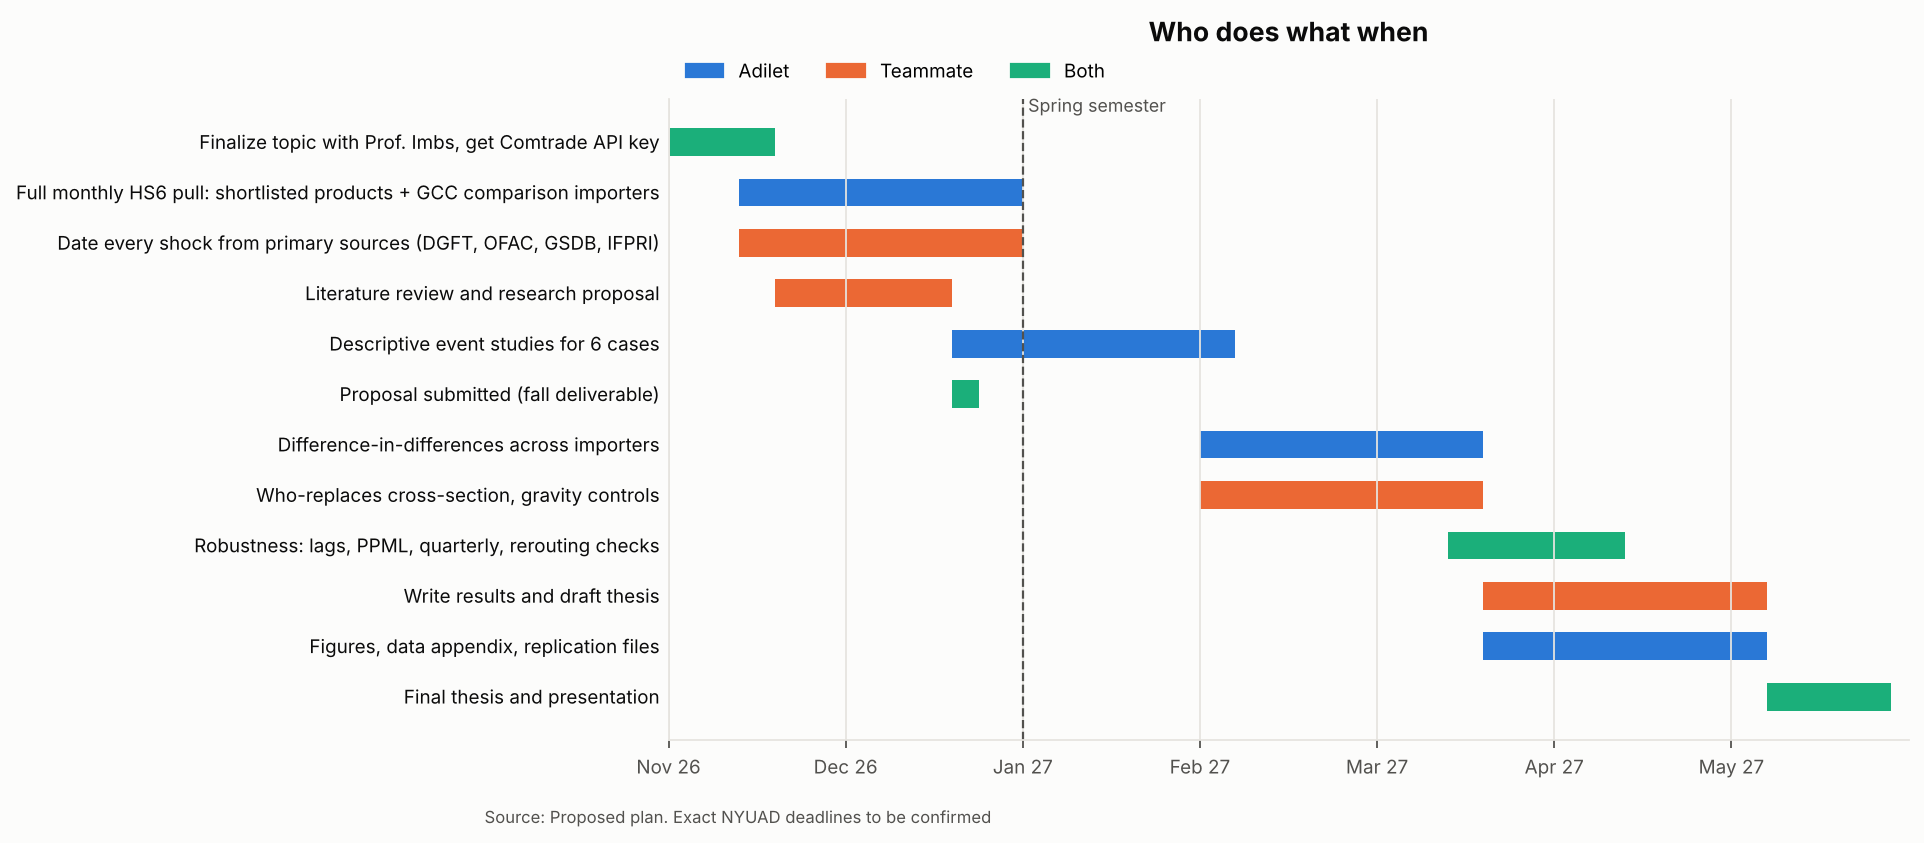
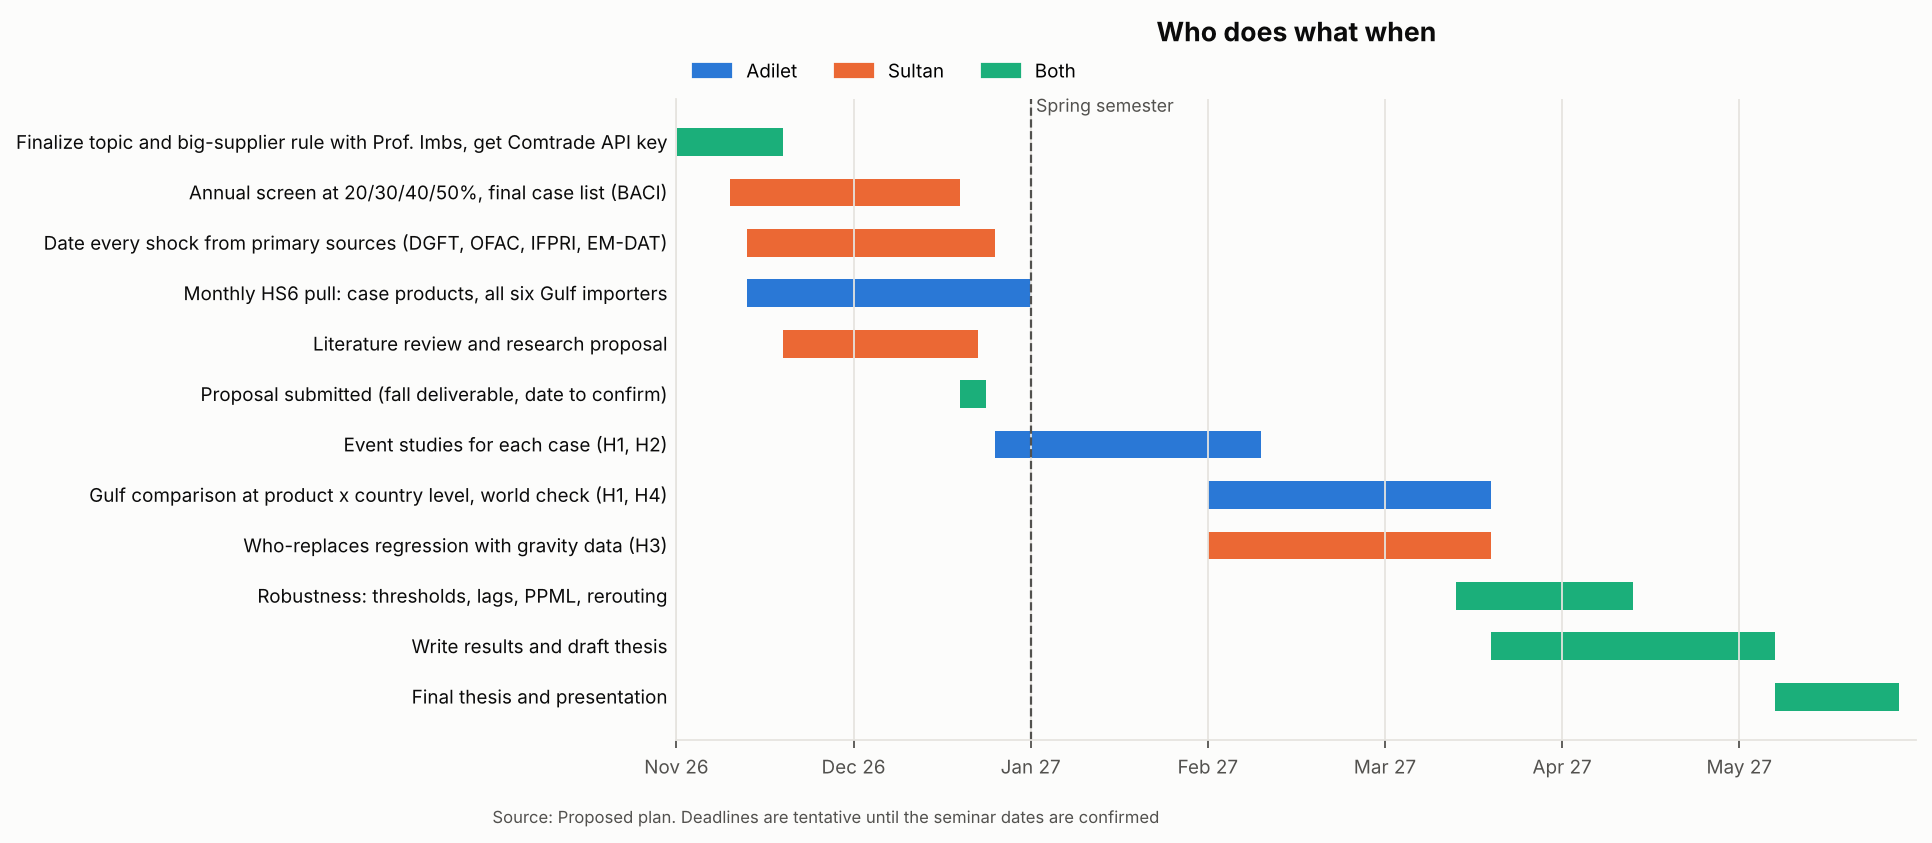
First look at hypotheses H2 and H3, timeline with agreed roles
Claude-Session: https://claude.ai/code/session_01Bw5zFw6EfUWiAtxb2EZNeQ

diff --git a/scripts/chart_timeline.py b/scripts/chart_timeline.py
@@ -1,19 +1,19 @@
 import sys; sys.path.insert(0,'scripts'); from charts_common import *
 import matplotlib.patches as mp
 tasks=[ # (label, start_month_index, end, owner)  index 0 = Nov 2026
- ('Finalize topic with Prof. Imbs, get Comtrade API key',0,0.6,'Both'),
- ('Full monthly HS6 pull: shortlisted products + GCC comparison importers',0.4,2,'Adilet'),
- ('Date every shock from primary sources (DGFT, OFAC, GSDB, IFPRI)',0.4,2,'Teammate'),
- ('Literature review and research proposal',0.6,1.6,'Teammate'),
- ('Descriptive event studies for 6 cases',1.6,3.2,'Adilet'),
- ('Proposal submitted (fall deliverable)',1.6,1.75,'Both'),
- ('Difference-in-differences across importers',3,4.6,'Adilet'),
- ('Who-replaces cross-section, gravity controls',3,4.6,'Teammate'),
- ('Robustness: lags, PPML, quarterly, rerouting checks',4.4,5.4,'Both'),
- ('Write results and draft thesis',4.6,6.2,'Teammate'),
- ('Figures, data appendix, replication files',4.6,6.2,'Adilet'),
+ ('Finalize topic and big-supplier rule with Prof. Imbs, get Comtrade API key',0,0.6,'Both'),
+ ('Annual screen at 20/30/40/50%, final case list (BACI)',0.3,1.6,'Sultan'),
+ ('Date every shock from primary sources (DGFT, OFAC, IFPRI, EM-DAT)',0.4,1.8,'Sultan'),
+ ('Monthly HS6 pull: case products, all six Gulf importers',0.4,2,'Adilet'),
+ ('Literature review and research proposal',0.6,1.7,'Sultan'),
+ ('Proposal submitted (fall deliverable, date to confirm)',1.6,1.75,'Both'),
+ ('Event studies for each case (H1, H2)',1.8,3.3,'Adilet'),
+ ('Gulf comparison at product x country level, world check (H1, H4)',3,4.6,'Adilet'),
+ ('Who-replaces regression with gravity data (H3)',3,4.6,'Sultan'),
+ ('Robustness: thresholds, lags, PPML, rerouting',4.4,5.4,'Both'),
+ ('Write results and draft thesis',4.6,6.2,'Both'),
  ('Final thesis and presentation',6.2,6.9,'Both')]
-col={'Adilet':PAL[0],'Teammate':PAL[1],'Both':PAL[2]}
+col={'Adilet':PAL[0],'Sultan':PAL[1],'Both':PAL[2]}
 fig,ax=plt.subplots(figsize=(10,5.2))
 for i,(l,s,e,o) in enumerate(tasks):
     y=len(tasks)-1-i; ax.barh(y,e-s,left=s,color=col[o],height=0.55)
@@ -23,4 +23,4 @@ ax.set_xticks(range(7)); ax.set_xticklabels(months,fontsize=8.5); ax.set_xlim(0,
 ax.axvline(2,color=INK2,lw=1,ls='--'); ax.text(2.03,len(tasks)-0.4,'Spring semester',fontsize=8,color=INK2)
 ax.legend(handles=[mp.Patch(color=col[k],label=k) for k in col],ncol=3,loc='lower left',bbox_to_anchor=(0,1.0),fontsize=8.5)
 ax.set_title('Who does what when',pad=26)
-save(fig,'charts/08_timeline.png','Proposed plan. Exact NYUAD deadlines to be confirmed')
+save(fig,'charts/08_timeline.png','Proposed plan. Deadlines are tentative until the seminar dates are confirmed')

diff --git a/scripts/hypotheses_first_look.py b/scripts/hypotheses_first_look.py
@@ -1,0 +1,30 @@
+# First descriptive look at H2 (product type) and H3 (who replaces) using the big-supplier flags.
+# Sample: flags from table_big_supplier_flags_by_threshold.csv, 1996-2023 excluding 2013-16.
+# Output: output/table_hypotheses_first_look.csv
+import pandas as pd, numpy as np
+F = pd.read_csv('output/table_big_supplier_flags_by_threshold.csv', dtype={'hs4': str})
+F = F[~F.year.between(2013, 2016)].copy()
+ch = F.hs4.str[:2].astype(int)
+F['product_group'] = np.select([ch <= 24, ch.between(25, 29) | ch.between(39, 40) | ch.between(72, 81),
+                                ch.between(84, 93)],
+                               ['food (HS 01-24)', 'fuels, metals, basic chemicals and plastics', 'machinery, vehicles, electronics'],
+                               'other manufactures')
+a = pd.read_csv('data/baci/baci_uae_imports_hs4_ALL_products_1995_2024.csv', dtype={'hs4': str})
+a = a.groupby(['hs4', 'exporter_iso3', 'year']).value_kusd.sum()
+tot = a.groupby(['hs4', 'year']).sum()
+F['top_gainer'] = F.who_gained.str.split(' ').str[0]
+F['top_gainer_share_prev'] = [a.get((h, c, y - 1), 0) / tot.get((h, y - 1), np.nan) if isinstance(c, str) else np.nan
+                              for h, c, y in zip(F.hs4, F.top_gainer, F.year)]
+rows = []
+for th in ['20%', '30%', '40%', '50%']:
+    for drops, d0 in [('all drops', F[F.threshold == th]), ('supplier-wide drops', F[(F.threshold == th) & (F.type == 'supplier-wide drop')])]:
+        for grp, d in list(d0.groupby('product_group')) + [('all products', d0)]:
+            g = d[d.top_gainer.notna()]
+            rows.append({'threshold': th, 'drops': drops, 'product_group': grp, 'flags': len(d),
+                         'median_replaced_next_year_pct': round(d.replaced_t1.median() * 100),
+                         'top_gainer_already_supplied_pct': round((g.top_gainer_share_prev > 0).mean() * 100) if len(g) else None,
+                         'top_gainer_median_prev_share_pct': round(g.top_gainer_share_prev.median() * 100, 1) if len(g) else None})
+T = pd.DataFrame(rows)
+T.to_csv('output/table_hypotheses_first_look.csv', index=False)
+pd.set_option('display.width', 220)
+print(T[(T.drops == 'supplier-wide drops')].to_string(index=False))
